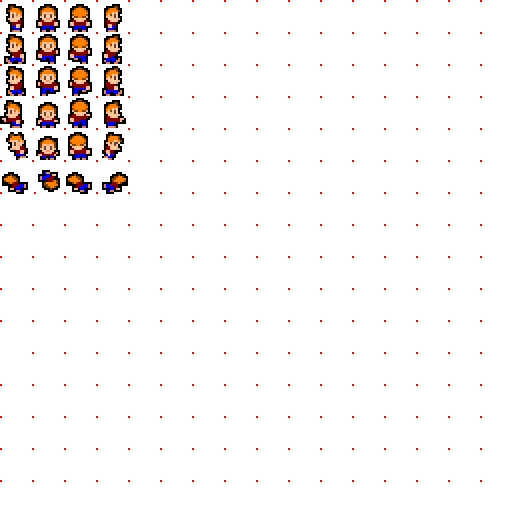
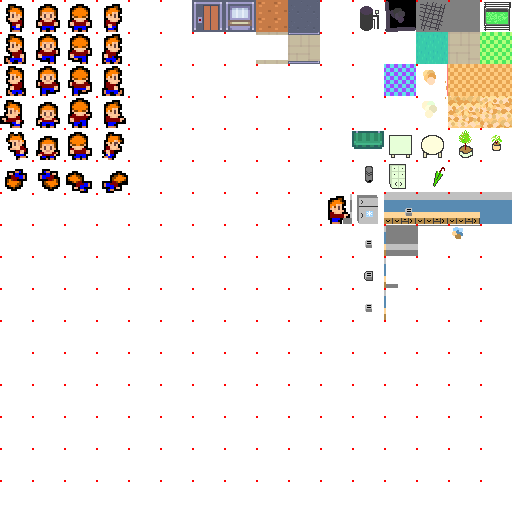
tinkering more

Changed region(s): [[0.625, 0.0, 1.0, 0.625], [0.375, 0.0, 0.625, 0.125], [0.0, 0.3125, 0.25, 0.375]]

diff --git a/gamelib/__init__.py b/gamelib/__init__.py
@@ -9,6 +9,27 @@ class Tilemap:
     cellh = 32
     def __init__(self, filename):
         self.filename = filename
+        self.tw = self.mapw // self.cellw
+        self.th = self.maph // self.cellh
+
+class TileDesc:
+    cx = 0
+    cy = 0
+    cy0 = 0
+    desc = {}
+    tilemap = None
+    def set_base(self, x, y):
+        self.cx = x
+        self.cy = y
+        self.cy0 = y
+
+    def add_desc(self, name):
+        self.desc[name] = (self.cx, self.cy)
+        self.cx += 1
+
+    def newline(self):
+        self.cy += 1
+        self.cx = self.cy0
 
 class TileBase:
     tilemap = None
@@ -41,6 +62,8 @@ class Animation:
         self.endaction = endaction
 
 class AnimatedTile(TileBase):
+    type_ox = 0
+    type_oy = 0
     def __init__(self):
         self.anims = {}
     def get_anim(self, obj, name, time) -> Animation:
@@ -54,8 +77,8 @@ class AnimatedTile(TileBase):
     def draw(self, obj):
         assert isinstance(obj, AnimatedObject)
         anim = self.get_anim(obj, obj.anim_name, obj.anim_time)
-        self.ox = anim.ox
-        self.oy = anim.oy
+        self.ox = anim.ox + self.type_ox
+        self.oy = anim.oy + self.type_oy
         TileBase.draw(self)
 
         obj.anim_time += 1
@@ -65,8 +88,10 @@ class AnimatedTile(TileBase):
             elif anim.endaction == EndAction.STOP:
                 obj.anim_time -= 1
 
+
 class GroundTile(TileBase):
     pass
+
 
 class CharacterTile(TileBase):
     pass
@@ -84,6 +109,22 @@ class Monster:
     name = 'trashbin'
     x = 0
     y = 0
+
+def load_tiles():
+    tm = Tilemap('data/pics/urban.png')
+    td = TileDesc()
+    td.set_base(0, 0)
+    td.add_desc('standA');td.add_desc('standS'); td.add_desc('standW'); td.add_desc('standD');
+    td.add_desc('doA1');  td.add_desc('goS1');   td.add_desc('goW1');   td.add_desc('goD1');
+    td.add_desc('doA2');  td.add_desc('goS2');   td.add_desc('goW2');   td.add_desc('goD2');
+    td.add_desc('pushA');td.add_desc('pushS'); td.add_desc('pushW'); td.add_desc('pushD');
+    td.add_desc('fallA');td.add_desc('fallS'); td.add_desc('fallW'); td.add_desc('fallD');
+    td.add_desc('deadA');td.add_desc('deadS'); td.add_desc('deadW'); td.add_desc('deadD');
+
+
+class Player(Monster):
+    pass
+
 
 class Cell:
     name = 'floor'
